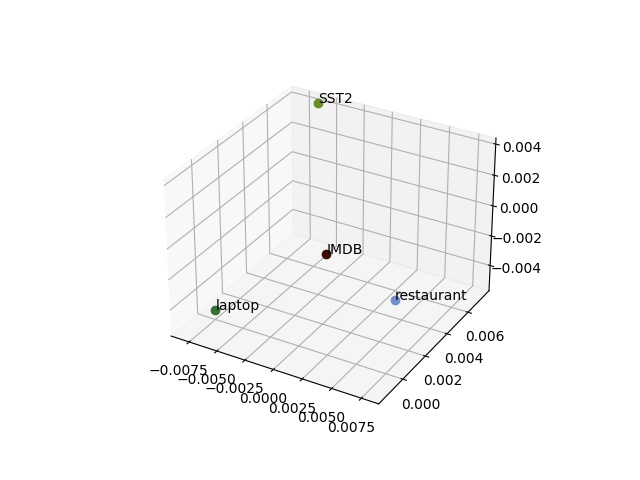
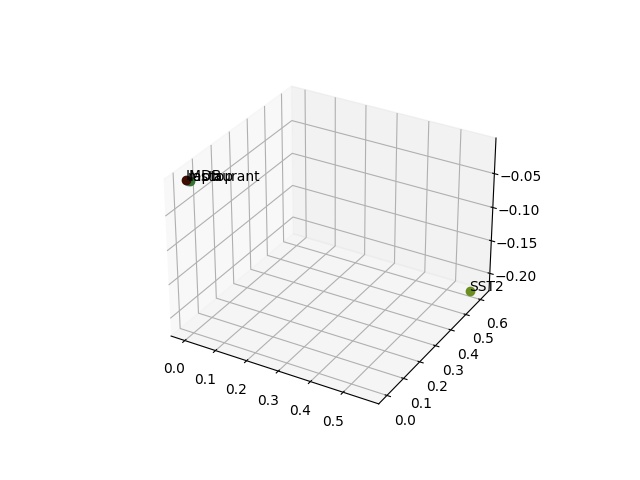
update

diff --git a/draw_cuda_mlmprompt.py b/draw_cuda_mlmprompt.py
@@ -77,8 +77,8 @@ def plot(x, y, **kwargs):
 
 #IMDB
 IMDB_ten = list()
-path="task_prompt_emb/IMDBPromptRoberta_mlm/task_prompt"
-IMDB_ten = torch.load(path).view(76800)
+path="task_prompt_emb/IMDBPromptRoberta/task_prompt"
+IMDB_ten = torch.load(path).view(76800).to("cpu")
 print(IMDB_ten.shape)
 #IMDB_ten = torch.stack([IMDB_ten for i in range(200)])
 #print(IMDB_ten.shape)
@@ -86,8 +86,8 @@ print(IMDB_ten.shape)
 
 #SST2
 sst2_ten = list()
-path="task_prompt_emb/SST2PromptRoberta_mlm/task_prompt"
-sst2_ten = torch.load(path).view(76800)
+path="task_prompt_emb/SST2PromptRoberta/task_prompt"
+sst2_ten = torch.load(path).view(76800).to("cpu")
 print(sst2_ten.shape)
 #sst2_ten = torch.stack([sst2_ten for i in range(200)])
 #print(sst2_ten.shape)
@@ -95,8 +95,8 @@ print(sst2_ten.shape)
 
 #laptop
 laptop_ten = list()
-path="task_prompt_emb/laptopPromptRoberta_mlm/task_prompt"
-laptop_ten = torch.load(path).view(76800)
+path="task_prompt_emb/laptopPromptRoberta/task_prompt"
+laptop_ten = torch.load(path).view(76800).to("cpu")
 print(laptop_ten.shape)
 #laptop_ten = torch.stack([laptop_ten for i in range(200)])
 #print(laptop_ten.shape)
@@ -104,8 +104,8 @@ print(laptop_ten.shape)
 
 #restaurant
 restaurant_ten = list()
-path="task_prompt_emb/restaurantPromptRoberta_mlm/task_prompt"
-restaurant_ten = torch.load(path).view(76800)
+path="task_prompt_emb/restaurantPromptRoberta/task_prompt"
+restaurant_ten = torch.load(path).view(76800).to("cpu")
 print(restaurant_ten.shape)
 #restaurant_ten = torch.stack([restaurant_ten for i in range(200)])
 #print(restaurant_ten.shape)
@@ -116,8 +116,8 @@ print(restaurant_ten.shape)
 
 #MRPC
 MRPC_ten = list()
-path="task_prompt_emb/MRPCPromptRoberta_mlm/task_prompt"
-MRPC_ten = torch.load(path).view(76800)
+path="task_prompt_emb/MRPCPromptRoberta/task_prompt"
+MRPC_ten = torch.load(path).view(76800).to("cpu")
 print(MRPC_ten.shape)
 #MRPC_ten = torch.stack([MRPC_ten for i in range(200)])
 #print(MRPC_ten.shape)
